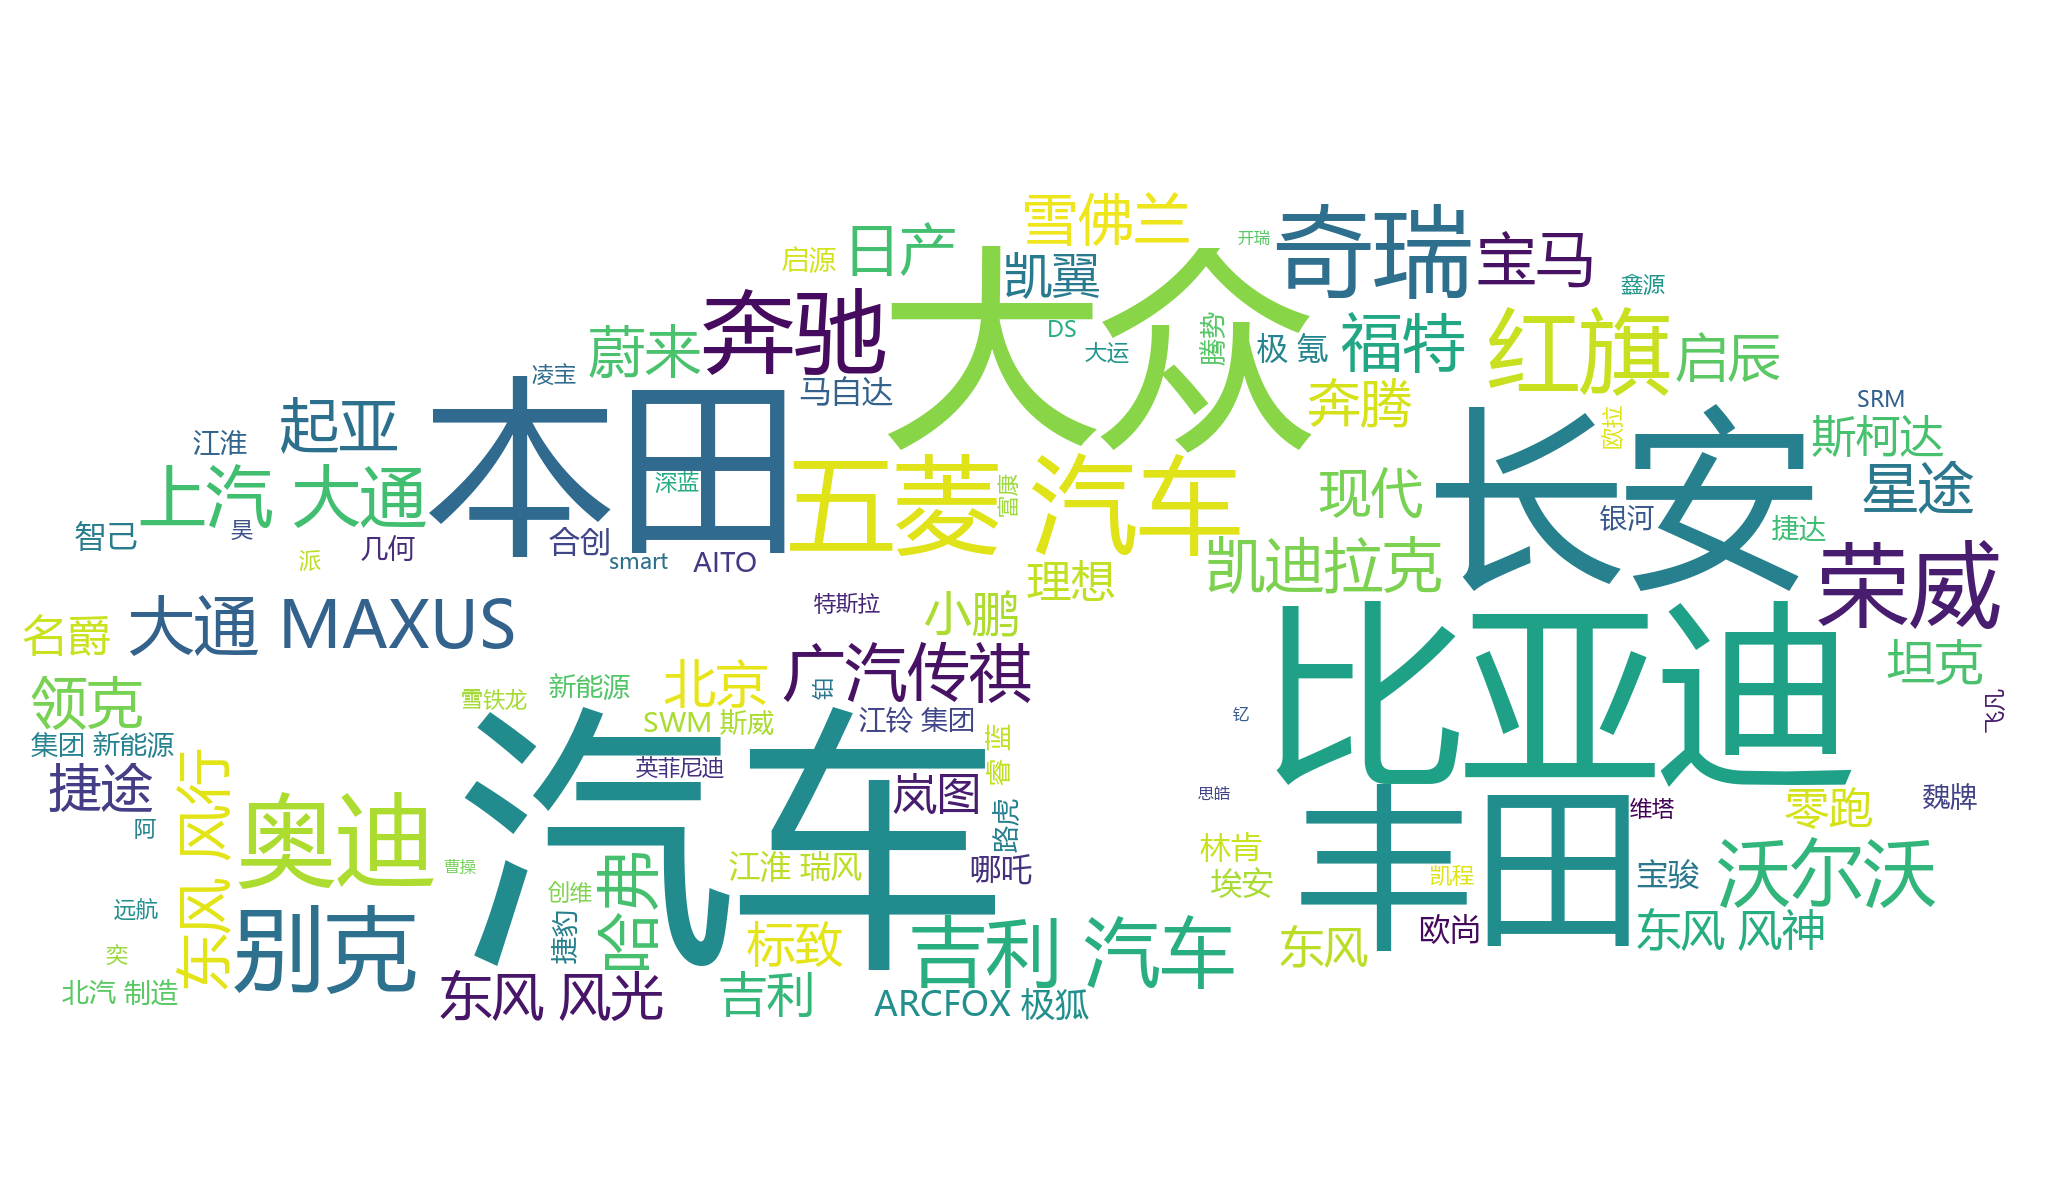
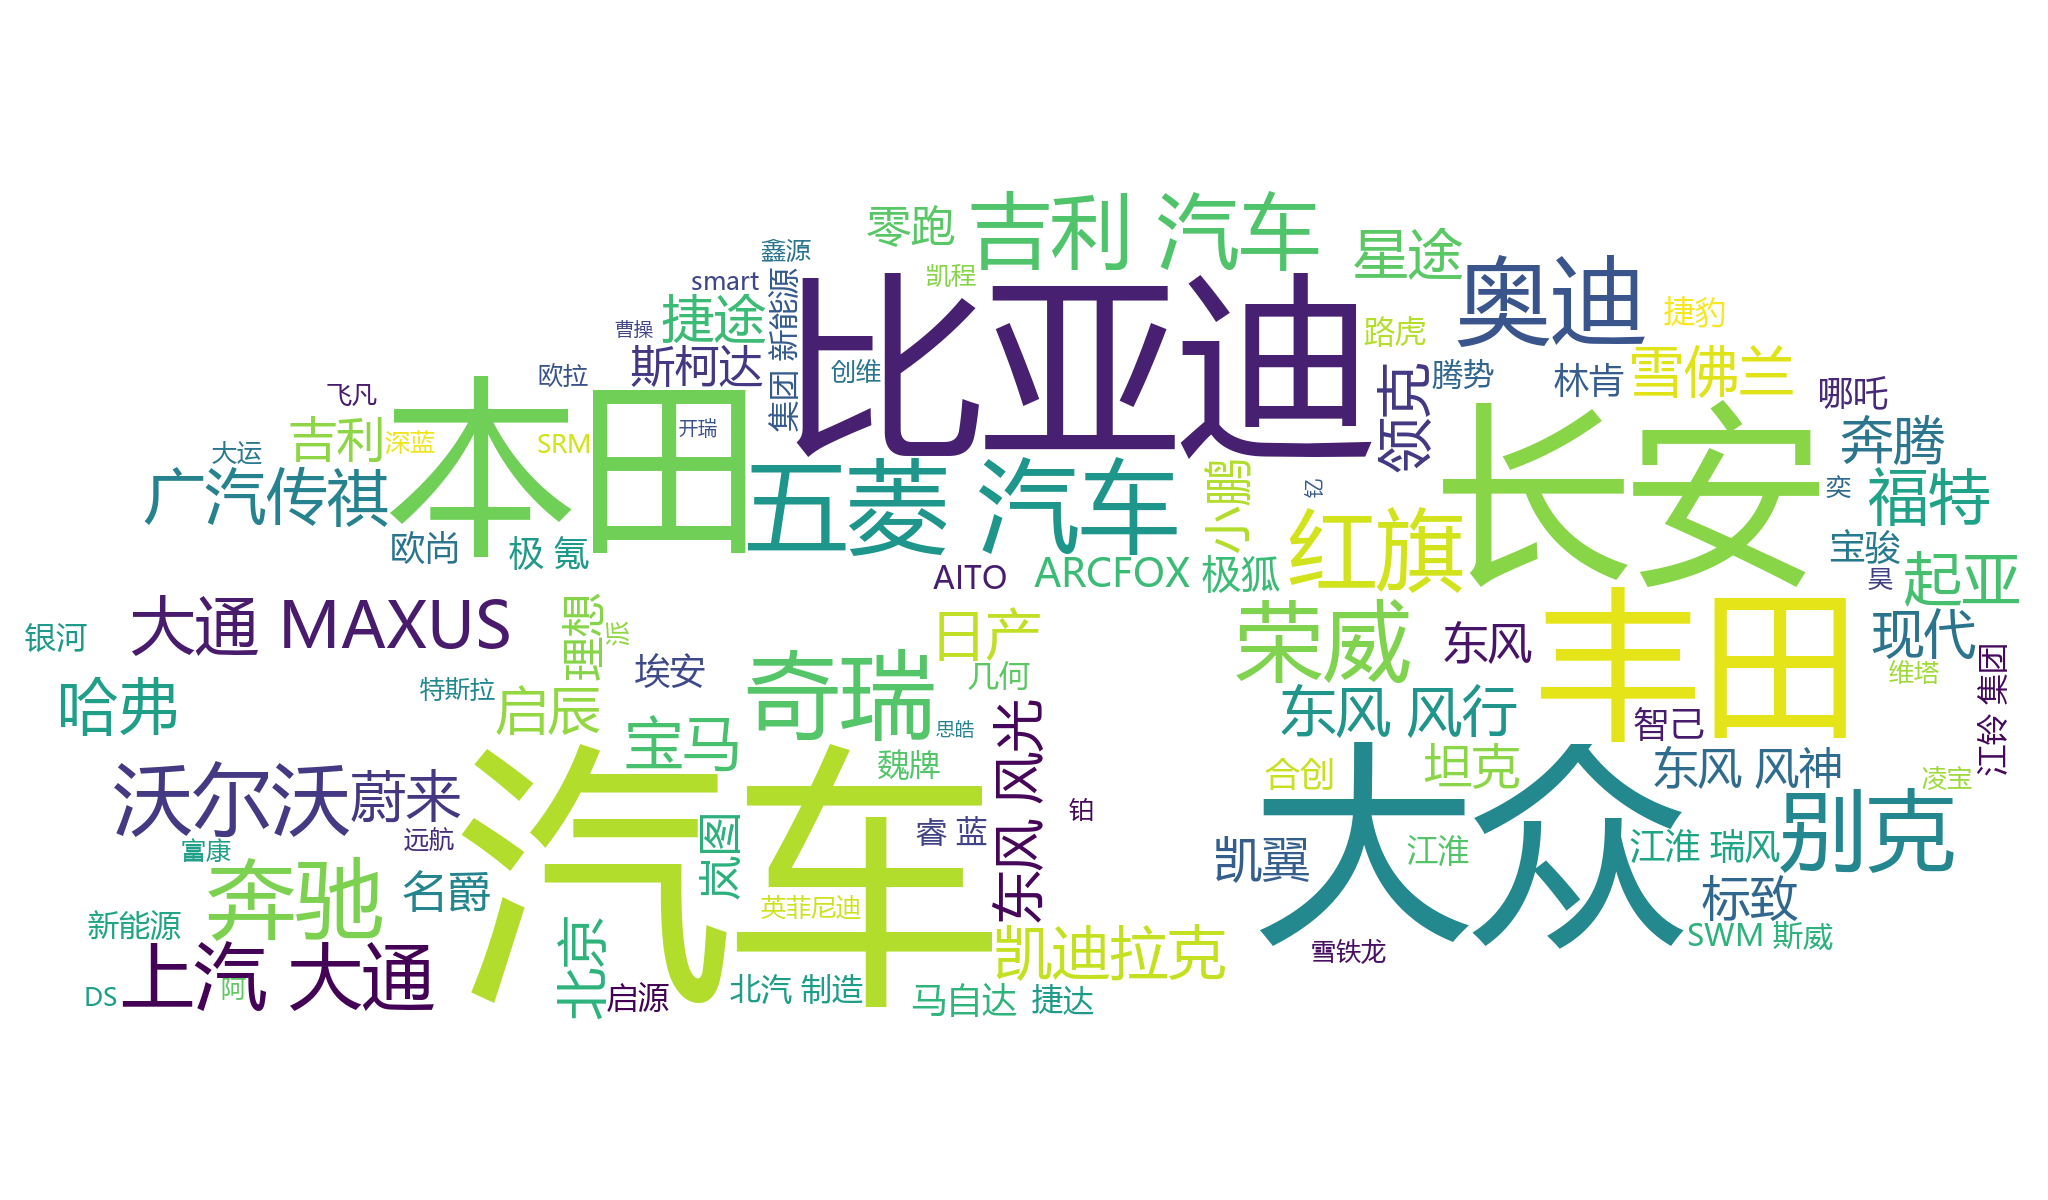
word cloud component complete

Changed region(s): [[0.0, 0.1542, 1.0, 0.8633]]

diff --git a/big-screen-vue-datav/src/components/echart/centerLeft/centerLeft1Chart/index.vue b/big-screen-vue-datav/src/components/echart/centerLeft/centerLeft1Chart/index.vue
@@ -8,6 +8,7 @@
 export default {
   data () {
     return {
+      currentIndex: 0,
       cdata: {
         xData: ["data1", "data2", "data3", "data4", "data5", "data6"],
         seriesData: [
@@ -27,10 +28,10 @@ export default {
   async mounted () {
     const res = await this.$http.get('/sales/center_left/')
     this.$set(this.cdata, 'seriesData', res.data.pie_data)
-    console.log(this.cdata.seriesData)
   },
   updated() {
     this.initChart()
+    this.loopAnimation()
   },
   methods: {
     initChart () {
@@ -59,23 +60,48 @@ export default {
           icon: "circle",
           bottom: 0,
           x: "center",
-          data: this.cdata.xData,
+          data: this.cdata.seriesData.map(item => item.name),
           textStyle: {
             color: "#fff"
           }
         },
         series: [
           {
-            name: "通过率统计",
+            name: "车型占比",
             type: "pie",
-            radius: [10, 50],
+            radius: [20, 70],
             roseType: "area",
             center: ["50%", "40%"],
-            data: this.cdata.seriesData
+            data: this.cdata.seriesData,
+            emphasis: {
+              itemStyle: {
+                shadowBlur:10,
+                shadowOffsetX:0,
+                lable:{
+                  show: true
+                }
+              }
+            }
           }
         ]
       };
       this.myChart.setOption(options)
+    },
+    loopAnimation() {
+      setInterval(() => {
+        this.myChart.dispatchAction({
+          type: 'downplay',
+          seriesIndex: 0,
+          dataIndex: this.currentIndex
+        });
+        this.currentIndex = (this.currentIndex + 1) % this.cdata.seriesData.length;
+
+        this.myChart.dispatchAction({
+          type: 'highlight',
+          seriesIndex: 0,
+          dataIndex: this.currentIndex
+        })
+      }, 2000)
     }
   }
 }

diff --git a/big-screen-vue-datav/src/views/centerLeft1.vue b/big-screen-vue-datav/src/views/centerLeft1.vue
@@ -6,29 +6,12 @@
           <icon name="chart-bar" class="text-icon"></icon>
         </span>
         <div class="d-flex">
-          <span class="fs-xl text mx-2">车型销量占比</span>
+          <span class="fs-xl text mx-2" style="font-size: 20px">车型销量占比</span>
           <dv-decoration-3 class="dv-dec-3" />
         </div>
       </div>
       <div class="d-flex jc-center">
         <CenterLeft1Chart />
-      </div>
-      <!-- 4个主要的数据 -->
-      <div class="bottom-data">
-        <div
-          class="item-box mt-2"
-          v-for="(item, index) in numberData"
-          :key="index"
-        >
-          <div class="d-flex">
-            <span class="coin">￥</span>
-            <dv-digital-flop class="dv-digital-flop" :config="item.number" />
-          </div>
-          <p class="text" style="text-align: center;">
-            {{ item.text }}
-            <span class="colorYellow">(件)</span>
-          </p>
-        </div>
       </div>
     </div>
   </div>

diff --git a/big-screen-vue-datav/src/views/centerLeft2.vue b/big-screen-vue-datav/src/views/centerLeft2.vue
@@ -6,22 +6,21 @@
           <icon name="chart-pie" class="text-icon"></icon>
         </span>
         <div class="d-flex">
-          <span class="fs-xl text mx-2">地图数据</span>
+          <span class="fs-xl text mx-2"></span>
           <dv-decoration-1 class="dv-dec-1" />
         </div>
       </div>
       <div class="d-flex jc-center">
-        <CenterLeft2Chart />
+        <img src="../../../wordcloud-img/car_wordcloud.png" alt="词云图" style="height: 200px; width: 300px; margin-top: 50px">
       </div>
     </div>
   </div>
 </template>
 
 <script>
-import CenterLeft2Chart from "@/components/echart/centerLeft/centerLeft2Chart";
 export default {
   components: {
-    CenterLeft2Chart
+
   },
 };
 </script>

diff --git a/sales/utils/wordcloud_generate.py b/sales/utils/wordcloud_generate.py
@@ -14,7 +14,15 @@ def generate_img():
     words = jieba.lcut(car_brand)
     words = ' '.join(words)
     mask = np.array(Image.open('i8.png'))
-    wc = WordCloud(font_path='C:\\Windows\\Fonts\\msyh.ttc', background_color='White', max_words=100, mask=mask)
+    wc = WordCloud(
+        font_path='C:\\Windows\\Fonts\\msyh.ttc',
+        background_color='rgba(255, 255, 255, 0)',
+        max_words=100,
+        mask=mask,
+        width=400,
+        height=300,
+        mode='RGBA'
+    )
     wc.generate(words)
     wc.to_file('wordcloud-img/car_wordcloud.png')
     return json.dumps({'status': 'success'})
